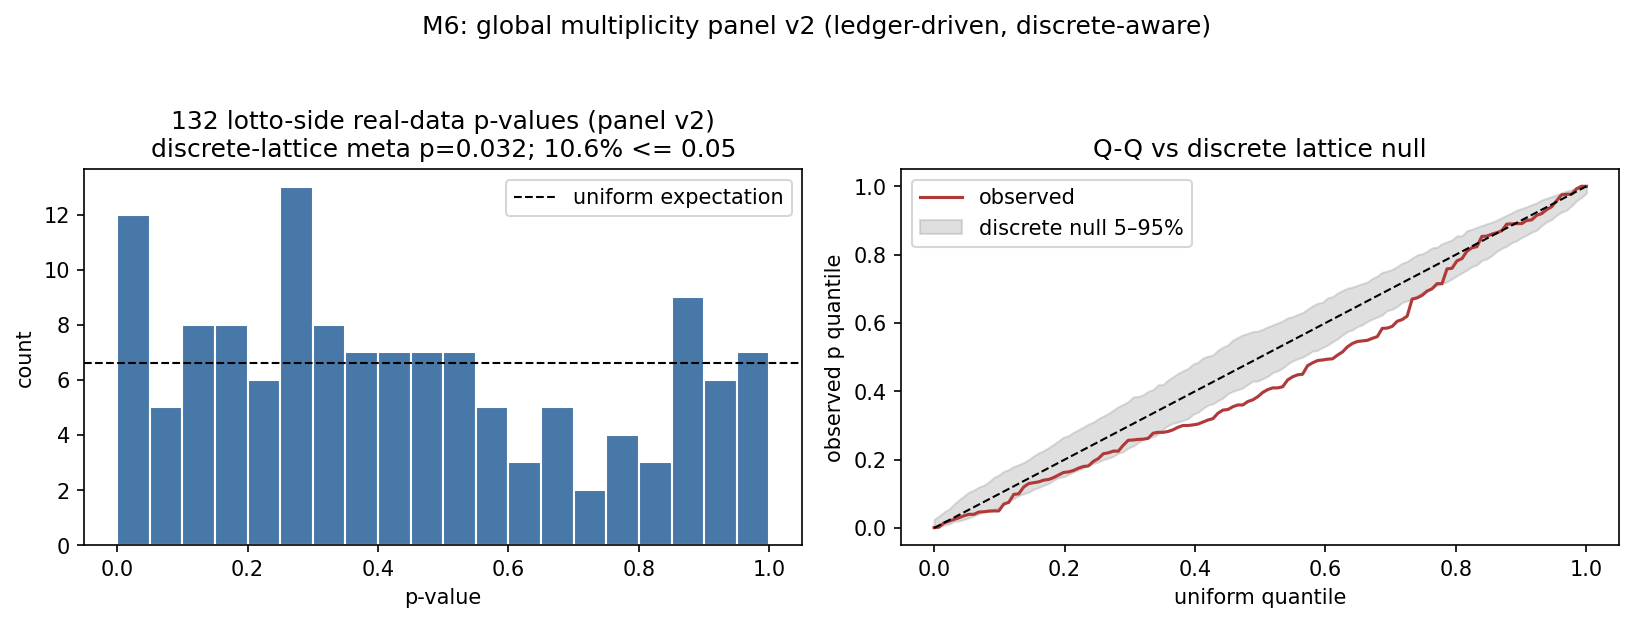
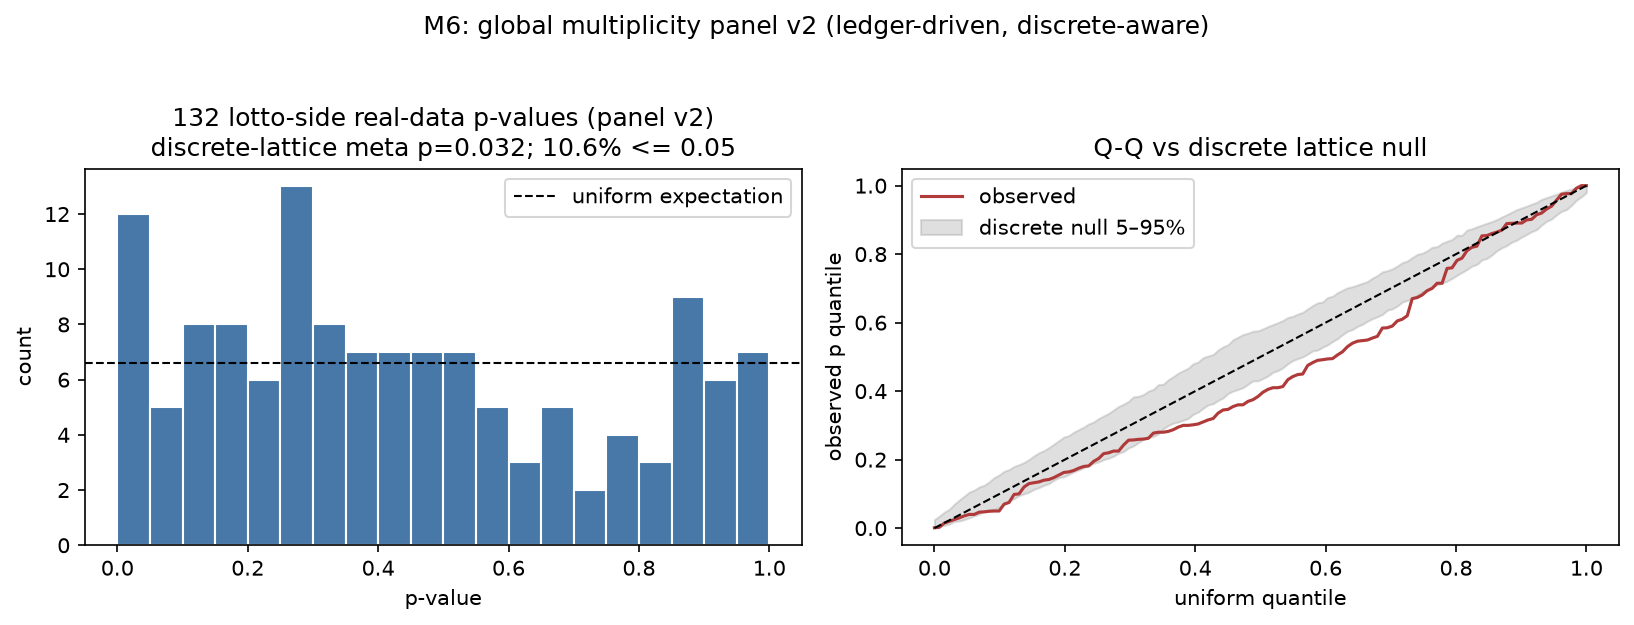
Option C for owner decision #35: derive the exploratory-stratum expectation from the ledger
The docs verifier pinned exploratory_stratum.n to the literal 7. That value is
DERIVED, not an invariant: results/multiplicity_ledger.jsonl holds 25 exploratory
test rows, 9 superseded, 16 live. The pinned 7 matched a panel the ledger had
already outgrown, so the verifier certified the stale artifact instead of
detecting it -- the replay defect routed as issue #35.

The check now computes its expectation from the ledger (same predicate the file
already uses for its own ledger accounting) and cross-checks the panel against
it. Strictly stronger: on the stale panel it now reports
  MISMATCH meta exploratory stratum reported 7 != 16
and exits 1, where the pinned literal was silently green.

Also regenerates results/meta_uniformity.json (3d696051230a8837 -- byte-identical
to the regeneration in heal PR #34) and its figure, both verified deterministic
across repeated runs.

Touches gate machinery (src/verify_); owner decision, not auto-mergeable.

diff --git a/src/verify_relational_docs.py b/src/verify_relational_docs.py
@@ -219,6 +219,17 @@ chk('sens 655 all corr', sens['Grand Lotto 6/55']['all']['corr'], 0.251)
 chk('sens 655 ex corr', sens['Grand Lotto 6/55']['ex_suspicious']['corr'], 0.154)
 chk('sens 655 lmax ex-suspicious p', round(sens['lambda_max_655_ex_suspicious']['p'], 4), 0.0025, 5e-5)
 U = json.load(open('results/meta_uniformity.json'))
+# Option C (owner decision #35): the expected exploratory-stratum size is DERIVED
+# from the ledger (the single source of truth), not pinned to a literal. A stale
+# panel now FAILS this check instead of being certified by it: the literal 7 that
+# used to stand here matched a panel the ledger had already outgrown (16 live
+# exploratory rows), which is exactly the replay defect routed as issue #35.
+# Predicate kept identical to the ledger accounting further down this file.
+_LED = [json.loads(l) for l in open('results/multiplicity_ledger.jsonl')]
+LEDGER_LIVE_EXPLORATORY = sum(
+    1 for r in _LED
+    if r.get('row_type', 'test') == 'test' and r.get('exploratory')
+    and 'superseded_by' not in r)
 # panel v2.1 (audit M-5/M-6 + adversarial review M5, 2026-07-02):
 # ledger-driven; median-based, superseded, exploratory (separate stratum),
 # eq, and miscalibrated-null rows excluded; alias-normalized dedup;
@@ -233,7 +244,8 @@ chk('meta frac05 above band (concentrates in #45 family)',
 chk('meta sensitivity: flag robust across compositions',
     all(v['frac_le_05'] >= 0.088 for v in U['composition_sensitivity'].values()),
     True)
-chk('meta exploratory stratum reported', U['exploratory_stratum']['n'], 7)
+chk('meta exploratory stratum reported',
+    U['exploratory_stratum']['n'], LEDGER_LIVE_EXPLORATORY)
 IV = json.load(open('results/independent_verification.json'))
 blind_key = json.load(open('results/blind/_key.json'))
 conc = 0
@@ -247,14 +259,15 @@ chk('indep replication corr ex', round(IV['task2']['excluding_suspicious']['corr
 print("REMEDIATION VERIFIED" if ok else "REMEDIATION FAILURES FOUND")
 
 # ---- External-review adoptions (ledger schema v2, audit C-1 2026-07-02) ----
-L = [json.loads(l) for l in open('results/multiplicity_ledger.jsonl')]
+L = _LED                                  # same read; one ledger pass per run
 T = [r for r in L if r.get('row_type', 'test') == 'test']
 LIVE = [r for r in T if 'superseded_by' not in r and not r.get('exploratory')]
 # 2026-09-06 PCSO refresh appended 9 EXPLORATORY rows (run pcso_refresh_2026_09_06:
 # payout-sharing x2, strategy-backtest x7); live rows and global_m unchanged at 195.
-# The meta panel (results/meta_uniformity.json) predates them and still reports the
-# 7-row exploratory stratum of its own run — rerun the panel to refresh that count.
-# r2 (same day, after the codex review): the 9 rows were superseded by 9 corrected rows.
+# r2 (same day, after the codex review): the 9 rows were superseded by 9 corrected rows,
+# so 25 exploratory rows total, 9 superseded, 16 live. The panel has since been rerun to
+# include the r2 rows, and the exploratory-stratum check above now derives its expected
+# size from this ledger instead of a literal (owner decision #35, option C).
 chk('ledger rows', len(L), 289)
 chk('ledger test rows', len(T), 285)
 chk('ledger live test rows', len(LIVE), 195)
